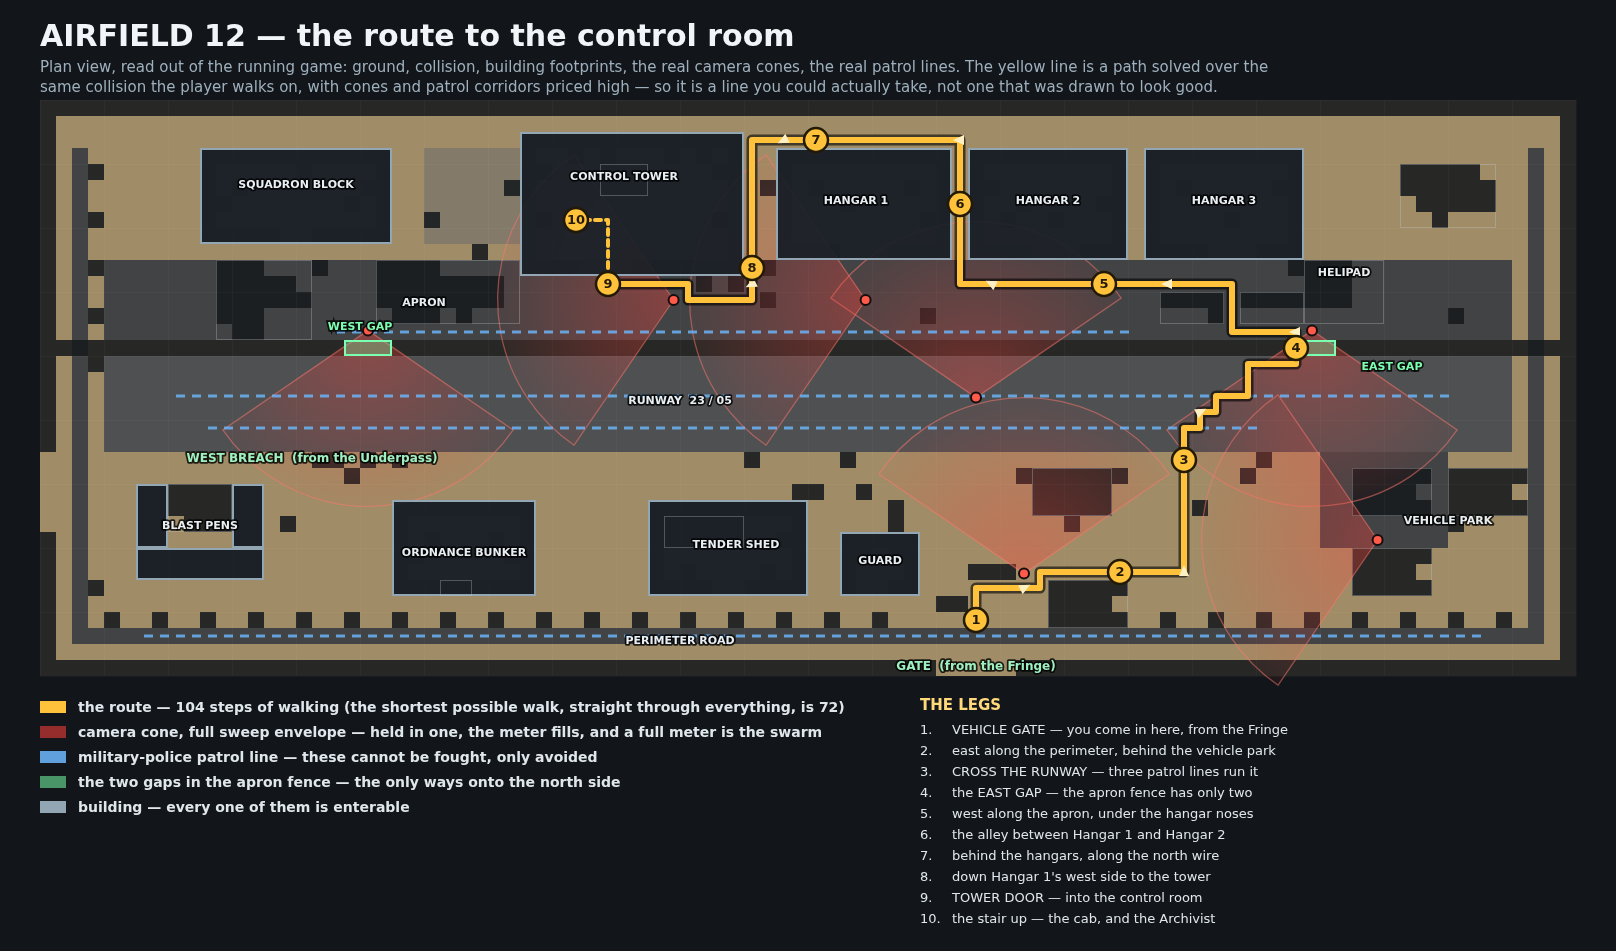
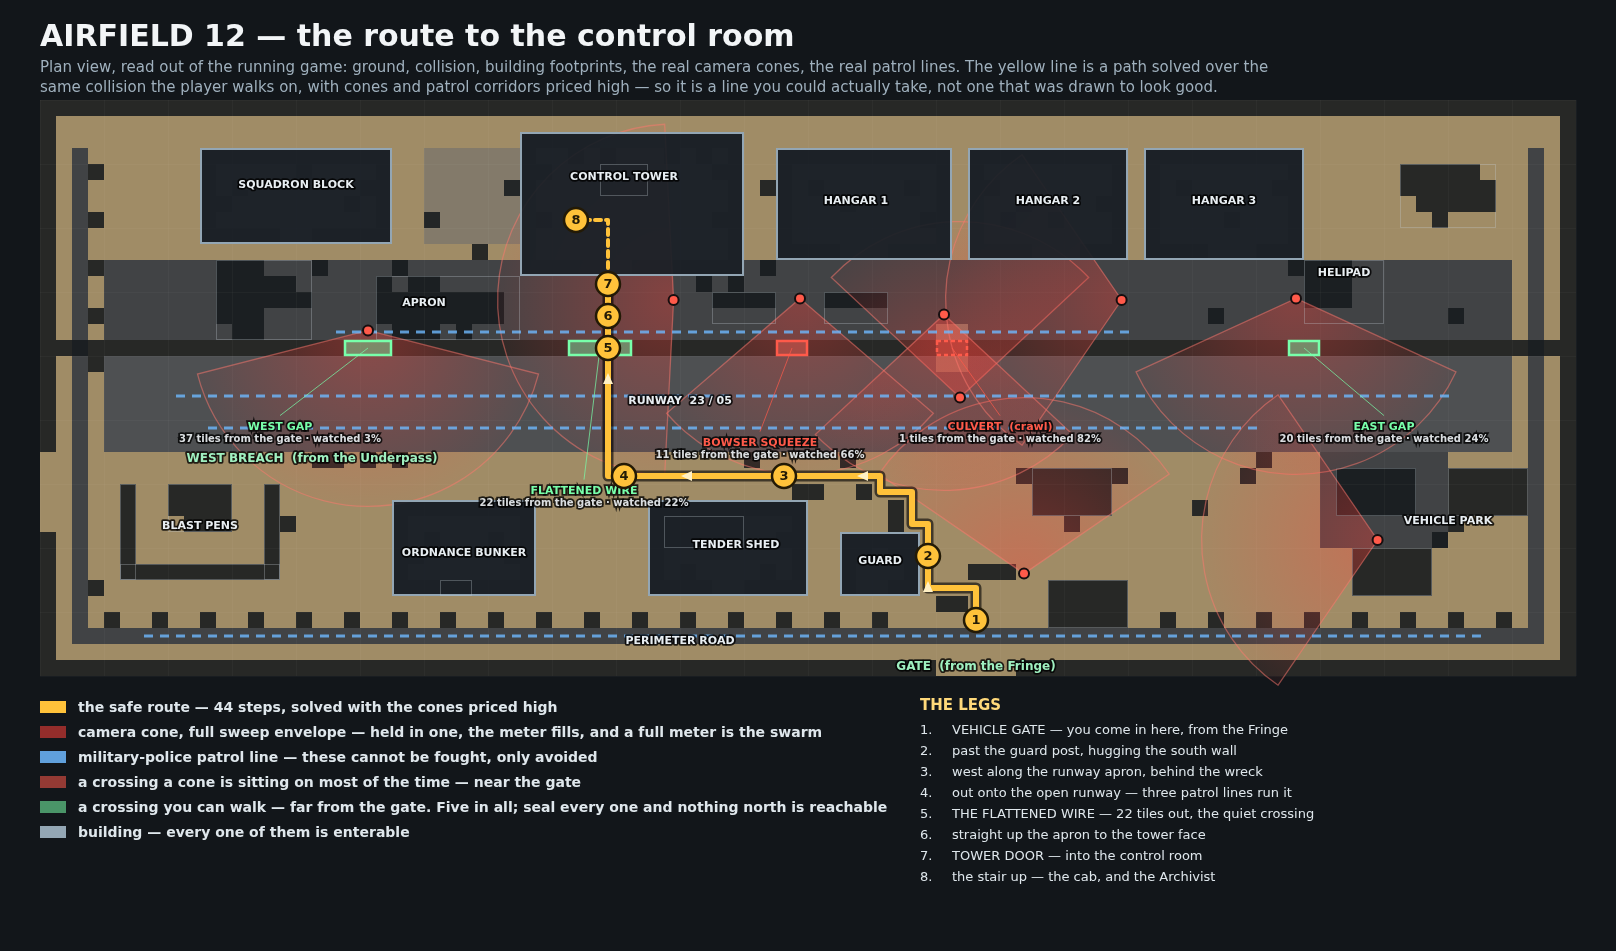
Airfield: five ways through the wire, and the near ones cost you
There were two ways onto the north side of the field, both twenty tiles or more
from the vehicle gate and both swept by a camera — so in practice there was one
way in and it was watched. Five now, graded so that the closer to the gate a
crossing is, the more of the time a cone is sitting on it:

  culvert (crawl)     1 tile from the gate    watched 78% of a sweep
  bowser squeeze     11                       watched 66%
  east service gap   20                       watched 24%
  flattened wire     22                       watched 21%
  west gap           37                       watched  3%

Sealing all five still leaves nothing reachable north of the fence, so these
are the ways through and there is no fifth wall to walk round.

THE CULVERT is a new kind of tile. `crawlable` stays solid in isSolid — no
patrol paths through it, no cone sees down it, findSafeSpot will not put you in
it — and playerCanStand lets a crouching player through. tryMove dispatches on
whether the mover is the player, so knockback and shoves obey the same rule as
walking rather than quietly getting a different one. The drain says what it is
the first time you walk past it, and never again.

THREE OF MY OWN MEASUREMENTS WERE WRONG before this graded correctly, and each
would have got the field backwards. Asking "is any tile of the gap lit" scores
wide openings as harder, because a wide sweep always has one tile lit — a
player needs a clear LANE, not a clear tile. Modelling the sweep as a shared
[…]

diff --git a/js/map.js b/js/map.js
@@ -10,6 +10,11 @@ const groundVar = [];
 const solid = [];
 const heavy = [];         // walls & mountains — stops even the boss
 const burning = [];       // ground that is ON FIRE — walkable, and it hurts
+// CRAWL SPACE. A tile that is solid to everything in the world and passable to
+// a player who is on their belly. It stays solid in `isSolid`, so nothing that
+// walks can path through it and no cone can see down it — a culvert under a
+// fence is a pipe, not a doorway. Only `playerCanStand` knows the difference.
+const crawlable = [];
 let crushProps = {};      // "x,y" -> prop: small junk the Compactor flattens
 const props = [];         // {gx, gy, type, v, dir, front, foot}
 const decals = [];
@@ -42,6 +47,19 @@ function canStand(x, y, r) {
   return !isSolid(x - r, y - r) && !isSolid(x + r, y - r) &&
          !isSolid(x - r, y + r) && !isSolid(x + r, y + r);
 }
+function isCrawl(gx, gy) {
+  if (gx < 0 || gy < 0 || gx >= MAP_W || gy >= MAP_H) return false;
+  return !!(crawlable[gy | 0] && crawlable[gy | 0][gx | 0]);
+}
+// WHAT THE PLAYER CAN STAND ON, which is not what a droid can. Everything else
+// in the game keeps calling `canStand`, so a crawl tile stays a wall to the
+// patrols, to the boss, to line of sight and to `findSafeSpot`.
+function playerCanStand(x, y, r) {
+  if (canStand(x, y, r)) return true;
+  if (typeof player === 'undefined' || !player.crouch) return false;
+  const ok = (px, py) => !isSolid(px, py) || isCrawl(px, py);
+  return ok(x - r, y - r) && ok(x + r, y - r) && ok(x - r, y + r) && ok(x + r, y + r);
+}
 function insideShack(x, y) {
   if (!SHACK) return false;
   return x > SHACK.x0 && x < SHACK.x1 + 1 && y > SHACK.y0 && y < SHACK.y1 + 1;
@@ -61,7 +79,7 @@ function openGate() {
 function resetMap(w, h, rng) {
   MAP_W = w; MAP_H = h;
   ground.length = 0; groundVar.length = 0; solid.length = 0; heavy.length = 0;
-  burning.length = 0;
+  burning.length = 0; crawlable.length = 0;
   props.length = 0; decals.length = 0; moundSpawns.length = 0;
   boomBarrels.length = 0; patrolPoints.length = 0;
   roadblocks = [];
@@ -69,12 +87,14 @@ function resetMap(w, h, rng) {
   gateProp = null; SHACK = null;
   for (let y = 0; y < h; y++) {
     ground[y] = []; groundVar[y] = []; solid[y] = []; heavy[y] = []; burning[y] = [];
+    crawlable[y] = [];
     for (let x = 0; x < w; x++) {
       ground[y][x] = 0;
       groundVar[y][x] = (rng() * 6) | 0;
       solid[y][x] = false;
       heavy[y][x] = false;
       burning[y][x] = false;
+      crawlable[y][x] = false;
     }
   }
 }
@@ -1592,12 +1612,27 @@ function buildField12() {
   const RW_Y0 = 16, RW_Y1 = 21;
   const AP_Y0 = 10, AP_Y1 = 14;
   const FENCE_Y = 15;                            // the apron fence
-  const GAP_W = [19, 21], GAP_E = [78, 80];      // and the only two ways through it
+  // FIVE WAYS THROUGH, AND THE NEAR ONES ARE THE HARD ONES.
+  // There used to be two, both twenty tiles or more from the vehicle gate and
+  // both swept by a camera — so there was, in practice, one way in, and it was
+  // watched. Five now, and the rule is the one Laurens asked for: the closer to
+  // the gate, the harder to use. Coming in loud and cutting straight north is a
+  // real option and it costs you; walking the long way is safe and slow.
+  //
+  //   x56-57  CULVERT          2 from the gate   crouch-only, under two cones
+  //   x46-47  BOWSER SQUEEZE  11                 two tiles, between the fuel bowsers
+  //   x78-80  SERVICE GAP     20                 the old east opening
+  //   x33-36  FLATTENED WIRE  23                 four wide, a hulk went through
+  //   x19-21  WEST GAP        37                 the old quiet end
+  const GAP_W = [19, 21], GAP_E = [78, 79];      // the two original openings
+  const GAP_FLAT = [33, 36];                     // where the hulk went through
+  const GAP_SQUEEZE = [46, 47];                  // two tiles, between the bowsers
+  const CULVERT = [56, 57];                      // crouch-only, under the wire
   for (let y = 0; y < H; y++) for (let x = 4; x < W - 4; x++) {
     if (y >= RW_Y0 && y <= RW_Y1) ground[y][x] = 17;
     else if (y >= AP_Y0 && y <= AP_Y1) ground[y][x] = 18;
   }
-  for (const g of [GAP_W, GAP_E]) for (let x = g[0]; x <= g[1]; x++) ground[FENCE_Y][x] = 18;
+  for (const g of [GAP_W, GAP_E, GAP_FLAT, GAP_SQUEEZE]) for (let x = g[0]; x <= g[1]; x++) ground[FENCE_Y][x] = 18;
   for (let y = RW_Y1 + 1; y <= 27; y++) for (let x = 80; x < 88; x++) ground[y][x] = 18;
   for (let x = 2; x < W - 2; x++) ground[33][x] = 18;
   for (let y = 3; y < H - 2; y++) { ground[y][2] = 18; ground[y][W - 3] = 18; }
@@ -1678,13 +1713,36 @@ function buildField12() {
   // FULL WIDTH, fence to fence. Running it x4..W-5 left the ends open and you
   // could simply walk round it: measured, a thousand tiles north of the fence
   // were still reachable with both gaps sealed.
-  run(rowX(FENCE_Y, 1, GAP_W[0] - 1), 'x');
-  run(rowX(FENCE_Y, GAP_W[1] + 1, GAP_E[0] - 1), 'x');
-  run(rowX(FENCE_Y, GAP_E[1] + 1, W - 2), 'x');
-  for (const g of [GAP_W, GAP_E]) {
+  // The wire runs between the openings. The culvert is NOT an opening in it —
+  // the fence goes straight over the top and the pipe goes under.
+  const OPENINGS = [GAP_W, GAP_FLAT, GAP_SQUEEZE, GAP_E]
+    .slice().sort((a, b) => a[0] - b[0]);
+  let cx0 = 1;
+  for (const g of OPENINGS) {
+    run(rowX(FENCE_Y, cx0, g[0] - 1), 'x');
     props.push({ gx: g[0] - 1, gy: FENCE_Y, type: 'post', big: true });
     props.push({ gx: g[1] + 1, gy: FENCE_Y, type: 'post', big: true });
+    cx0 = g[1] + 1;
   }
+  run(rowX(FENCE_Y, cx0, W - 2), 'x');
+
+  // THE FLATTENED SECTION. Something drove through it and nobody came out to
+  // fix it — so the opening is wide and obvious, and it is twenty-three tiles
+  // from the gate. The hulk that did it is still lying in the gap.
+  props.push({ gx: GAP_FLAT[0], gy: FENCE_Y + 1, type: 'razorDown', dir: 'x' });
+  props.push({ gx: GAP_FLAT[1] - 1, gy: FENCE_Y - 1, type: 'razorDown', dir: 'x' });
+
+  // THE CULVERT. A storm drain under the apron fence, two tiles from the gate
+  // road. The fence is unbroken above it: these tiles stay solid to everything
+  // that walks and to every cone, and open only to a player on their belly.
+  for (const x of CULVERT) {
+    crawlable[FENCE_Y][x] = true;
+    ground[FENCE_Y][x] = 20;
+    ground[FENCE_Y - 1][x] = 20;
+    ground[FENCE_Y + 1][x] = 20;
+  }
+  props.push({ gx: CULVERT[0], gy: FENCE_Y + 1, type: 'culvert' });
+  props.push({ gx: CULVERT[1], gy: FENCE_Y - 1, type: 'culvert' });
 
   // ---- THE STRUCTURES ----
   const box = (x0, y0, w, h, kind) => {
@@ -1810,7 +1868,11 @@ function buildField12() {
   hardware(82, 28, 5, 3, 'tank');
   hardware(63, 30, 5, 3, 'tankHulk');            // beside the gate, never across it
   if (!solid[12][45]) { solid[12][45] = true; props.push({ gx: 45, gy: 12, type: 'radarMast' }); }
-  for (const bx of [70, 75]) {
+  // THE FUEL, and it is what makes the squeeze a squeeze. Two bowsers stand
+  // either side of the one-tile gap at x47, so the crossing eleven tiles from
+  // the gate is a corridor you can only take head-on — and they are explosive,
+  // which is the one thing on this field that can go wrong loudly.
+  for (const bx of [42, 49]) {
     for (let k = 0; k < 4; k++) solid[12][bx + k] = true;
     props.push({ gx: bx, gy: 12, type: 'hardware', kind: 'bowser', foot: [bx, 12, 4, 2] });
     boomBarrels.push({ gx: bx + 1, gy: 12, dead: false, r: 3 });
@@ -1832,15 +1894,36 @@ function buildField12() {
   // Placed ALONG THE ROUTE, not scattered: the gate approach, the runway you
   // have to cross, both gaps in the apron fence, and the long apron run west to
   // the tower door. NONE at the west breach — that is still Wren's way.
+  // THE CAMERAS ARE THE GRADING. Five ways through the fence is a label until
+  // the near ones are actually the hard ones, and what makes a crossing hard is
+  // how much of the time a cone is sitting on it.
+  //
+  // Every camera shares one sweep PERIOD (WATCH.camSweep), so the fourth number
+  // — the sweep amplitude — is the dial: a narrow sweep is nearly a stare and
+  // is almost always on its crossing; a wide one covers more ground but spends
+  // only a moment of each pass on any given tile, which is a gap you can time.
+  // So the near crossings get narrow cones and two of them; the far ones get
+  // one wide slow cone each.
   const CAMS = [
     [61, 30, -Math.PI / 2, 0.45],              // the gate approach
-    [58, 19, -Math.PI / 2, 0.45],              // the runway crossing off the gate
-    [79, 13,  Math.PI / 2, 0.45],              // the EAST gap in the apron fence
-    [20, 13,  Math.PI / 2, 0.45],              // the WEST gap
-    [52, 12,  Math.PI,     0.45],              // the apron run, looking west
-    [40, 12,  Math.PI,     0.45],              // the last stretch to the tower door
+    [57, 19, -Math.PI / 2, 0.30],              // the CULVERT's south mouth — aimed AT it, not near it
+    [56, 12,  Math.PI / 2, 0.30],              // and its north mouth. TWO cones, one tile from the gate road.
+    [47, 11,  Math.PI / 2, 0.34],              // the BOWSER SQUEEZE, 11 tiles out
+    [68, 12,  Math.PI,     0.45],              // the apron run, a long look west
+    [78, 11,  Math.PI / 2, 0.62],              // the EAST service gap, 20 out
+    [40, 12,  Math.PI,     1.00],              // the FLATTENED section and the tower approach, 22 out
+    [20, 13,  Math.PI / 2, 0.80],              // the WEST gap, 37 out — the widest sweep on the field
     [84, 27,  Math.PI,     0.45],              // the vehicle park
   ];
+  // A CAMERA STANDING INSIDE A BOWSER SEES THE INSIDE OF A BOWSER. Moving the
+  // fuel to flank the squeeze put one camera inside a tank of it and another
+  // inside the helicopter, and both went blind — a fault that reads, in play,
+  // as a cone that simply is not there. The sites are checked at build time now.
+  for (const c of CAMS) {
+    if (solid[c[1]] && solid[c[1]][c[0]]) {
+      console.warn('AIRFIELD 12: camera site ' + c[0] + ',' + c[1] + ' is inside something solid');
+    }
+  }
   Areas.field12.cameras = CAMS;
 
   // ---- THE DESERT ----

diff --git a/js/watch.js b/js/watch.js
@@ -45,9 +45,11 @@ const Watch = {
   swarmSeen: false,        // saved: has the player watched it once
   networkDown: false,      // the Provost is dead; everything here is off
   warnedPlate: false,      // the "nothing gets through that plate" thought
+  sawCulvert: false,       // saved: the drain has told the player what it is
   firstSight: false,       // saved: the scripted teaching beat has played
 };
-const WATCH_DEFAULTS = { swarmSeen: false, networkDown: false, firstSight: false };
+const WATCH_DEFAULTS = { swarmSeen: false, networkDown: false, firstSight: false,
+                         sawCulvert: false };
 
 function clearWatch() {
   cameras.length = 0; mps.length = 0; swarmBots.length = 0;
@@ -280,6 +282,21 @@ function updateWatch(dt) {
   } else {
     Watch.by = null;
     Watch.seen = Math.max(0, Watch.seen - WATCH.drain * dt);
+  }
+
+  // ---- THE CULVERT TELLS YOU WHAT IT IS, ONCE.
+  // A crouch-only gap the player never learns about is not a shortcut, it is a
+  // wall with a secret. The drain is two tiles from the gate road, so anybody
+  // walking in the loud way passes it — say it the first time they do, in the
+  // traveller's voice, and never again.
+  if (!Watch.sawCulvert) {
+    for (const q of props) {
+      if (q.type !== 'culvert') continue;
+      if (Math.hypot(player.x - (q.gx + 0.5), player.y - (q.gy + 0.5)) > 2.2) continue;
+      Watch.sawCulvert = true;
+      showMsg('A storm drain, under the wire. I would have to go flat.', 3.4);
+      break;
+    }
   }
 }
 

diff --git a/js/sprites.js b/js/sprites.js
@@ -4166,6 +4166,23 @@ function outlined(src) {
     Sprites.penWallX10 = penWall(10, 'x');
     Sprites.penWallY6 = penWall(6, 'y');
 
+    // A STORM DRAIN under the apron fence. A concrete headwall with a pipe
+    // mouth in it, low enough to walk past without noticing — which is the
+    // point: the culvert is two tiles from the gate road and it is the one way
+    // through the wire that does not need you to be standing up.
+    // It LIES ALONG THE FENCE, so it is built on the rig rather than drawn as a
+    // flat rectangle: the shear is in the projection, per THE ANGLE RULE.
+    const culvert = () => {
+      const R = isoRig(1.0, 1.6, 15);
+      R.box(0, 0, 1, 1.6, 0, 11, '#9a9384', '#7b7568', '#655f55');   // the headwall
+      R.flat(0.1, 0.12, 0.9, 1.48, 11.3, '#8a8375');                 // its cap
+      R.box(0.18, 0.45, 0.82, 1.15, 0, 7.5, '#2a2723', '#141210', '#141210'); // the mouth
+      R.flat(0.24, 0.52, 0.76, 1.08, 0.4, '#0d0c0a');                // the dark inside it
+      R.box(0.05, 0.20, 0.16, 1.40, 0, 12.5, '#847e71', '#6a6459', '#57524a'); // a wing wall
+      return R.finish();
+    };
+    Sprites.culvert = culvert();
+
     // THE RADAR. A lattice tower with a dish that does not turn any more.
     const radar = () => {
       const c = makeCanvas(34, 72), g = c.getContext('2d');

diff --git a/js/entities.js b/js/entities.js
@@ -1001,9 +1001,15 @@ let Prompt = null;
 
 const SPEED = 4.0;
 
+// ONE mover for everything that walks, and it asks a different question for the
+// player. A crawl tile — the culvert under the apron fence — is a wall to every
+// droid, to line of sight and to `findSafeSpot`, and a gap to a player on their
+// belly. Dispatching here rather than at the call site means knockback, shoves
+// and the boss's pushes all obey the same rule as walking.
 function tryMove(e, dx, dy) {
-  if (dx !== 0 && canStand(e.x + dx, e.y, e.r)) e.x += dx;
-  if (dy !== 0 && canStand(e.x, e.y + dy, e.r)) e.y += dy;
+  const fits = (e === player) ? playerCanStand : canStand;
+  if (dx !== 0 && fits(e.x + dx, e.y, e.r)) e.x += dx;
+  if (dy !== 0 && fits(e.x, e.y + dy, e.r)) e.y += dy;
 }
 
 function updatePlayer(dt) {

diff --git a/js/game.js b/js/game.js
@@ -3063,6 +3063,11 @@ function drawProp(p, x, y) {
   else if (T === 'stairDown') { img = Sprites.stairDown; oyOff = -14; }
   else if (T === 'cabGlass')  { img = Sprites.cabGlass; oyOff = -26; }
   else if (T === 'deadScav')  { img = Sprites.deadScav; oyOff = -12; drawShadow(x, y, 9); }
+  else if (T === 'culvert') {
+    const im = Sprites.culvert;
+    ctx.drawImage(im, Math.round(x - im.ox), Math.round(y - im.oy));
+    return;
+  }
   else if (T === 'cactus')    { img = Sprites.cactus;      oyOff = -28; drawShadow(x, y, 5); }
   else if (T === 'cactusSmall'){ img = Sprites.cactusSmall; oyOff = -18; drawShadow(x, y, 4); }
   else if (T === 'scrub')     { img = Sprites.scrub;       oyOff = -6; }

diff --git a/js/save.js b/js/save.js
@@ -53,7 +53,8 @@ function saveGame() {
       // cutscene skippable from the second time; `networkDown` is a whole area
       // having changed state and must outlive the walk home.
       watch: typeof Watch !== 'undefined'
-        ? { swarmSeen: Watch.swarmSeen, networkDown: Watch.networkDown, firstSight: Watch.firstSight }
+        ? { swarmSeen: Watch.swarmSeen, networkDown: Watch.networkDown,
+            firstSight: Watch.firstSight, sawCulvert: Watch.sawCulvert }
         : undefined,
     };
     localStorage.setItem(saveKey(), JSON.stringify(d));

diff --git a/design/airfield-pass-two.md b/design/airfield-pass-two.md
@@ -138,6 +138,50 @@ choice: go straight in on your belly under two cones, or walk twenty minutes.
 - re-measure: sealing **all five** must still leave 0 tiles reachable north
 - the route picture regenerated
 
+### BUILT — and measured, 2026-09-09
+Nine cameras, five crossings, and the grading is a fact rather than a label:
+
+| crossing | from the gate | watched |
+|---|---|---|
+| culvert *(crawl)* | 1 | **78%** |
+| bowser squeeze | 11 | **66%** |
+| east service gap | 20 | **24%** |
+| flattened wire | 22 | **21%** |
+| west gap | 37 | **3%** |
+
+"Watched" is the fraction of a full sweep in which **no lane exists** — no x in
+the opening with every exposed row unlit at the same instant. That is what a
+player times a run against.
+
+**Three of my own measurements were wrong before this held up**, and each one
+would have graded the field backwards:
+1. The first metric asked "is any tile of the gap lit". A wide sweep across a
+   three-tile opening always has one tile lit, so it scored wide openings as
+   *harder*. A player needs a clear lane, not a clear tile.
+2. The second modelled the sweep as one shared sine. The real sweep eases,
+   **holds at each end** (`camSweep*2 + camHold*2` = 6s) and every camera starts
+   on its own random offset. The harness drives `updateWatch` now and reads the
+   live `aim` — it measures the game rather than a model of it.
+3. The monotonic check was **vacuous**: the destructured `rows` shadowed the
+   results array, so it ran over an empty list and reported "grading holds:
+   true" no matter what the numbers were.
+
+And moving the bowsers to flank the squeeze **put one camera inside a fuel tank
+and another inside the helicopter** — both went blind, which in play reads as a
+cone that simply is not there. Camera sites are checked against `solid` at build
+time now, and `camtest` asks whether a camera sees anything *over its whole
+sweep* rather than at one sampled instant.
+
+**The culvert** is a new kind of tile: `crawlable`. It stays solid in `isSolid`,
+so no patrol paths through it, no cone sees down it and `findSafeSpot` will not
+put you in it — and `playerCanStand` lets a crouching player through. `tryMove`
+dispatches on whether the mover is the player, so knockback and shoves obey the
+same rule as walking. It says what it is, once, the first time you pass it.
+
+**The route is 44 steps now**, down from 72, because the near crossings exist —
+and the solver takes the flattened wire at 22 tiles rather than either near one.
+That is the trade working: the short way in is there, and it is the watched one.
+
 ---
 
 ## 4. There is still a plane in a house — and here it is
